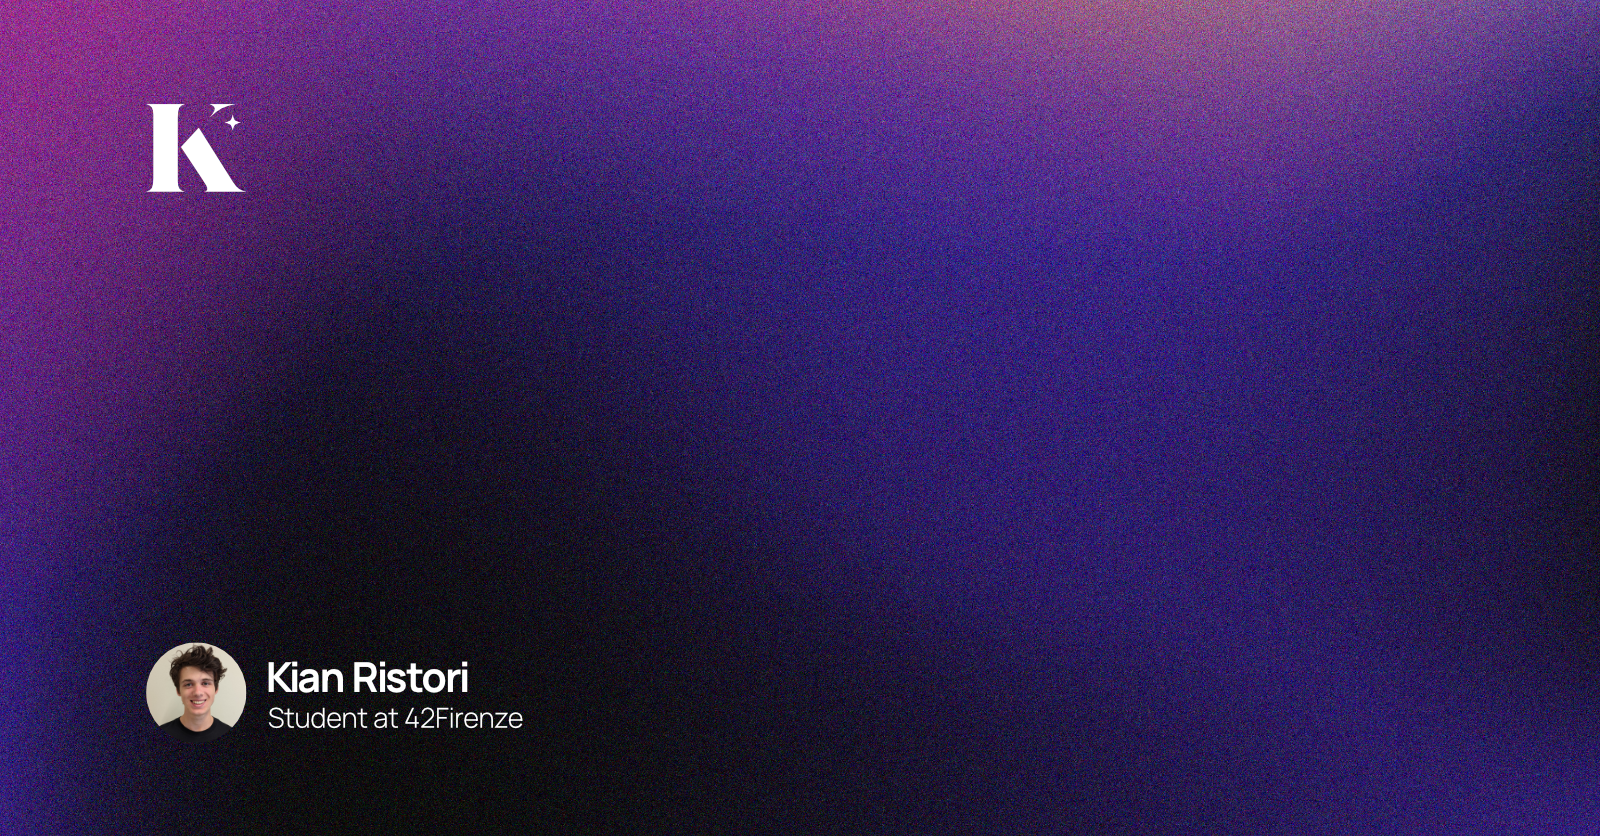
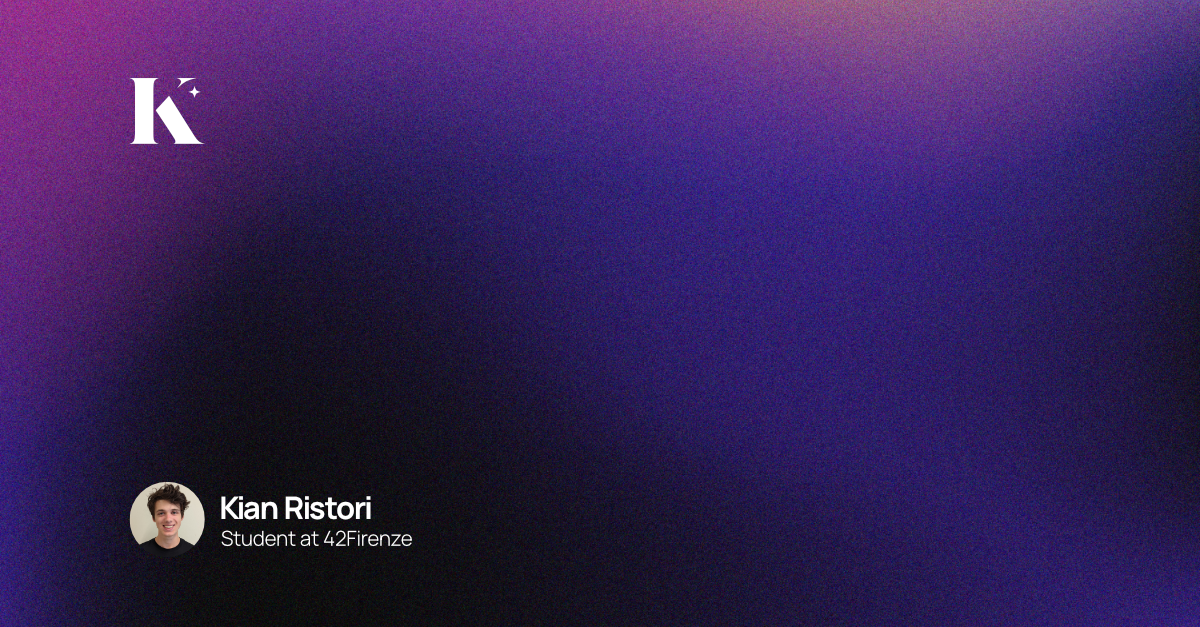
Change size ogImage

Changed region(s): [[0.0925, 0.7576, 0.3392, 0.8788], [0.0925, 0.1212, 0.185, 0.2424]]

diff --git a/pages/api/og.tsx b/pages/api/og.tsx
@@ -47,8 +47,8 @@ export default async function handler(req: NextRequest) {
       </div>
     ),
     {
-      width: 1600,
-      height: 836,
+      width: 1200,
+      height: 627,
       fonts: [
           {
             name: 'Epilogue',
